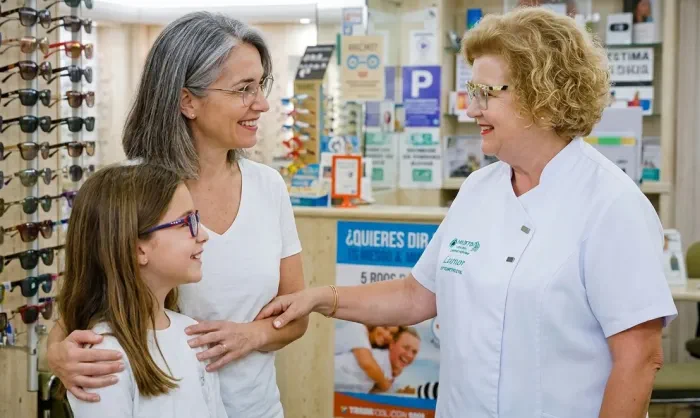
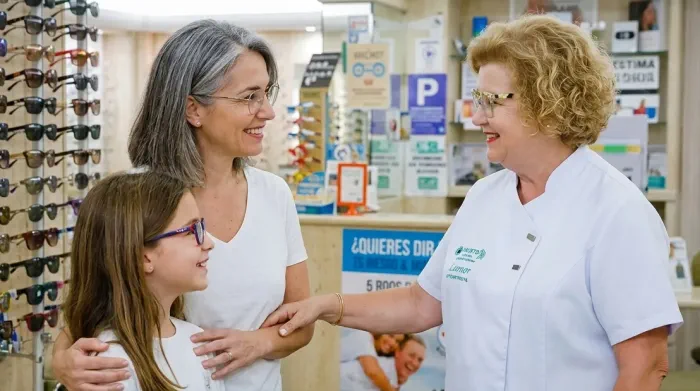
image-text & sections force P tag for paragraph

diff --git a/themes/f1-theme/layouts/partials/md-block.html b/themes/f1-theme/layouts/partials/md-block.html
@@ -1,0 +1,24 @@
+{{- /*
+  Markdown -> HTML en modo BLOQUE, para prosa de bloques (image-text, text,
+  text-split, banner, faq).
+
+  Por que existe: `markdownify` renderiza en modo inline y, si el resultado es un
+  UNICO parrafo, le quita el <p>. Con dos o mas parrafos si los conserva. El
+  mismo campo producia por tanto HTML distinto segun su longitud, y los copys de
+  un solo parrafo quedaban como texto suelto dentro del <div>: sin <p> semantico
+  (lectores de pantalla, modo lector), sin los margenes del tema y sin el estilo
+  de enlace de `.prose :is(p, ...) a`. En modo bloque el <p> se emite siempre.
+  Es lo mismo que ya hacian los shortcodes (`.Inner | $.Page.RenderString
+  (dict "display" "block")`): este partial da la paridad a las secciones de
+  front matter.
+
+  Uso:   {{ partial "md-block.html" .text }}
+  Sirve para texto de varios parrafos, listas o encabezados. NO usarlo dentro de
+  un <p> ni de un <figcaption> (ahi el modo inline de `markdownify` es lo
+  correcto: un <p> dentro de un <p> es HTML invalido).
+
+  `page` es el Page que se esta renderizando; los bloques reciben un dict sin
+  .Page, de ahi que no se pueda usar `.Page.RenderString`.
+*/ -}}
+{{- $s := . | default "" | string -}}
+{{- return (page.RenderString (dict "display" "block") $s) -}}

diff --git a/themes/f1-theme/assets/css/main.css b/themes/f1-theme/assets/css/main.css
@@ -22,6 +22,13 @@
 .prose :first-child {
   margin-top: 0
 }
+/* Prosa de bloque con UN solo parrafo (image-text, faq, text, banner): antes
+   salia sin <p> (markdownify lo quitaba) y por tanto sin margen inferior; ahora
+   lleva <p> (partials/md-block.html). Sin esta regla cada bloque creceria ~1em.
+   Con varios parrafos no se toca: el ultimo conserva su margen como siempre. */
+.block .prose>p:only-child {
+  margin-bottom: 0
+}
 /* El límite de lectura va en los elementos, no en el contenedor: así .prose mide lo mismo que cualquier .container de página (1120px), y un bloque/shortcode insertado entre párrafos no queda atrapado en 72ch — solo el TEXTO se recorta. */
 .prose>p,
 .prose>h2,
@@ -1543,6 +1550,10 @@ h2.fs-xs {
   grid-template-columns: 1fr;
   gap: clamp(1.65em, 5vw, 3.35em);
   align-items: center
+}
+/* Paridad con el shortcode: dentro de .prose el primer elemento ya pierde su margen superior (.prose :first-child); la version de front matter (sections:) no vive en .prose y su <p> arrancaba con 1em de margen. */
+.text-split-col>:first-child {
+  margin-top: 0
 }
 .text-split-col.has-pad-s {
   padding: var(--space-s)

diff --git a/themes/f1-theme/layouts/shortcodes/text-split-item.html b/themes/f1-theme/layouts/shortcodes/text-split-item.html
@@ -29,10 +29,10 @@
   margin   — valor CSS libre, ej. "0 0 1rem 0" (como bgColor, sin validar
              contra una lista cerrada — para casos puntuales de ajuste fino)
 
-  Nota: si el resultado final es un único párrafo, Hugo elimina el <p> que lo
-  envuelve (comportamiento estándar de markdownify, no un bug de este
-  shortcode) — el texto queda como nodo directo dentro del div, sin problema
-  visual porque los modificadores apuntan al div, no al <p>.
+  Nota: el contenido se renderiza en modo bloque (RenderString display=block),
+  así que un único párrafo conserva su <p>. Con `markdownify` (modo inline)
+  Hugo lo eliminaba y el texto quedaba suelto dentro del div. El bloque
+  `text-split` de front matter usa el mismo modo vía partials/md-block.html.
 */ -}}
 {{- $textSize := .Get "textSize" -}}
 {{- $align := .Get "align" -}}

diff --git a/themes/f1-theme/layouts/partials/blocks/image-text.html b/themes/f1-theme/layouts/partials/blocks/image-text.html
@@ -16,7 +16,7 @@
   <div class="container image-text-inner has-cols">
     <div class="image-text-copy">
       {{ with .title }}<h2>{{ . }}</h2>{{ end }}
-      {{ with .text }}<div class="prose">{{ . | markdownify }}</div>{{ end }}
+      {{ with .text }}<div class="prose">{{ partial "md-block.html" . }}</div>{{ end }}
     </div>
     {{ with .image }}<figure class="image-text-media">{{ partial "img-responsive.html" (dict "src" . "alt" $.imageAlt "sizes" "(width > 51.25em) 50vw, 100vw") }}{{ with $.caption }}<figcaption class="image-text-caption">{{ . | markdownify }}</figcaption>{{ end }}</figure>{{ end }}
   </div>

diff --git a/themes/f1-theme/layouts/partials/blocks/text-split.html b/themes/f1-theme/layouts/partials/blocks/text-split.html
@@ -34,7 +34,7 @@
         {{- with $item.align }}{{ $classes = $classes | append (printf "block-align-%s" .) }}{{ end -}}
         {{- with $item.pad }}{{ $classes = $classes | append (printf "has-pad-%s" .) }}{{ end -}}
         <div class="{{ delimit $classes " " }}"{{ with $item.margin }} style="margin:{{ . | safeCSS }}"{{ end }}>
-          {{ $item.text | markdownify }}
+          {{ partial "md-block.html" $item.text }}
         </div>
       {{ end }}
     </div>

diff --git a/themes/f1-theme/layouts/partials/blocks/faq.html b/themes/f1-theme/layouts/partials/blocks/faq.html
@@ -3,7 +3,7 @@
   <div class="container">
     <h2>{{ $.title | default (i18n "faqTitle") }}</h2>
     <div class="faq-list">
-      {{ range . }}<details><summary>{{ .question }}</summary><div class="prose">{{ .answer | markdownify }}</div></details>{{ end }}
+      {{ range . }}<details><summary>{{ .question }}</summary><div class="prose">{{ partial "md-block.html" .answer }}</div></details>{{ end }}
     </div>
   </div>
 </section>

diff --git a/themes/f1-theme/layouts/partials/blocks/banner.html b/themes/f1-theme/layouts/partials/blocks/banner.html
@@ -35,6 +35,6 @@
   {{- with .textColor }}{{ $styles = $styles | append (printf "--section-text-color:%s" .) }}{{ end -}}
   {{- with $styles }} style="{{ delimit . ";" | safeCSS }}"{{ end }}>
   <div class="container banner-inner">
-    {{ with .text }}{{ . | markdownify }}{{ end }}
+    {{ with .text }}{{ partial "md-block.html" . }}{{ end }}
   </div>
 </aside>

diff --git a/themes/f1-theme/layouts/partials/blocks/text.html b/themes/f1-theme/layouts/partials/blocks/text.html
@@ -30,6 +30,6 @@
   <div class="container">
     {{ with .title }}<h2>{{ . }}</h2>{{ end }}
     {{ with .subtitle }}<p class="section-subtitle">{{ . }}</p>{{ end }}
-    <div class="prose">{{ .text | markdownify }}</div>
+    <div class="prose">{{ partial "md-block.html" .text }}</div>
   </div>
 </section>

diff --git a/themes/f1-theme/docs/CHANGELOG.md b/themes/f1-theme/docs/CHANGELOG.md
@@ -1,5 +1,32 @@
 # F1 Theme · Changelog
 
+## Sin versión — prosa de bloques con su `<p>`: `partials/md-block.html`
+
+- **Defecto:** `markdownify` renderiza en modo inline y quita el `<p>` cuando el resultado es
+  un único párrafo. Los shortcodes ya se habían corregido (ver «`banner`, `testimonial`…» más
+  abajo), pero los bloques de `sections:` seguían con `markdownify`: un copy de un solo párrafo
+  salía como texto suelto en el `<div>` (sin `<p>` semántico para lectores de pantalla y modo
+  lector, y sin el estilo de enlace de `.prose :is(p, …) a`). Los mismos campos con dos párrafos
+  sí llevaban `<p>`, así que el HTML dependía de la longitud del texto.
+- **Arreglo:** nuevo `partials/md-block.html` (`page.RenderString (dict "display" "block")`),
+  usado por `blocks/image-text`, `text`, `text-split`, `banner` y `faq`. Paridad HTML con los
+  shortcodes. Los `markdownify` que quedan están dentro de un `<p>` o `<figcaption>`
+  (`cta` y `hero` subtitle, `image-text` caption), donde el modo inline es lo correcto.
+- **Alcance medido (build real):** 26 de las 30 páginas tenían texto suelto en `image-text` y/o
+  en las 134 respuestas de FAQ; tras el cambio, 0. Los enlaces dentro de una respuesta de FAQ
+  ahora reciben el color y el subrayado de enlace del prose (antes solo el subrayado, en el
+  color del texto).
+- **CSS (2 reglas):** `.block .prose>p:only-child { margin-bottom: 0 }` — el párrafo único
+  conserva el espaciado que tenía sin `<p>` (si no, cada `image-text` y cada FAQ crecería ~1em);
+  con varios párrafos nada cambia. `.text-split-col>:first-child { margin-top: 0 }` — paridad con
+  el shortcode, que dentro de `.prose` ya lo tenía.
+- **Medido** (Playwright, 28 páginas × 375/820/1280px, imágenes cargadas, con control de ruido):
+  misma altura de página que antes en todas, sin desbordes. Cambia solo `/demo/` (±11px a
+  375/820, +43px a 1280, por las columnas de `text-split` de `sections:`). Con la FAQ abierta,
+  alguna respuesta larga pasa a una línea más en pantallas anchas: ahora respeta el `72ch` de
+  `.prose>p`, como cualquier otro párrafo.
+- `shortcodes/text-split-item.html`: comentario corregido (decía que el `<p>` único se eliminaba).
+
 ## Sin versión — shortcode `obf` + `data-obf` en `main.js`; `noindex` de la 404 en el `<head>`
 
 - **Shortcode `{{< obf text="…" fallback="…" >}}`:** el dato sale del build en base64 dentro de

diff --git a/content/_index.md b/content/_index.md
@@ -54,12 +54,14 @@ sections:
         text: "Seguimiento después de la compra"
   - type: image-text
     title: "Nos conocemos de toda la vida. Y eso se nota."
+    width: wide
     text: "Ópticas Fausto no es solo una óptica ni solo un centro auditivo. Es un lugar al que muchas personas vuelven porque se sienten conocidas, escuchadas y acompañadas. La continuidad del equipo nos permite saber quién vuelve por la puerta, qué necesita y cómo le fue con su última revisión, sus gafas o sus audífonos. Esa confianza se construye con años de cercanía real y con la tranquilidad de no empezar de cero en cada visita."
     image: "/images/100-atencion_personalizada.webp"
     imageAlt: "Leonor atendiendo a una clienta y su hija en el Centro Fausto Andalucía"
     caption: "**Leonor** en Centro Fausto Andalucía"
   - type: image-text
     title: "Atención humana, seguimiento real"
+    width: wide
     text: "La relación no termina cuando alguien compra unas gafas o un audífono. Seguimos acompañando en la adaptación, resolvemos dudas, ajustamos, revisamos y estamos pendientes de la evolución de cada persona. Preferimos asesorar con honestidad, recomendar lo que realmente encaja y atender sin prisas, porque cuidar la visión y la audición también significa estar cerca después de la compra."
     image: "/images/100-atencion-duque.webp"
     imageAlt: "Anabel atendiendo a una pareja en el Centro Fausto Duque"
